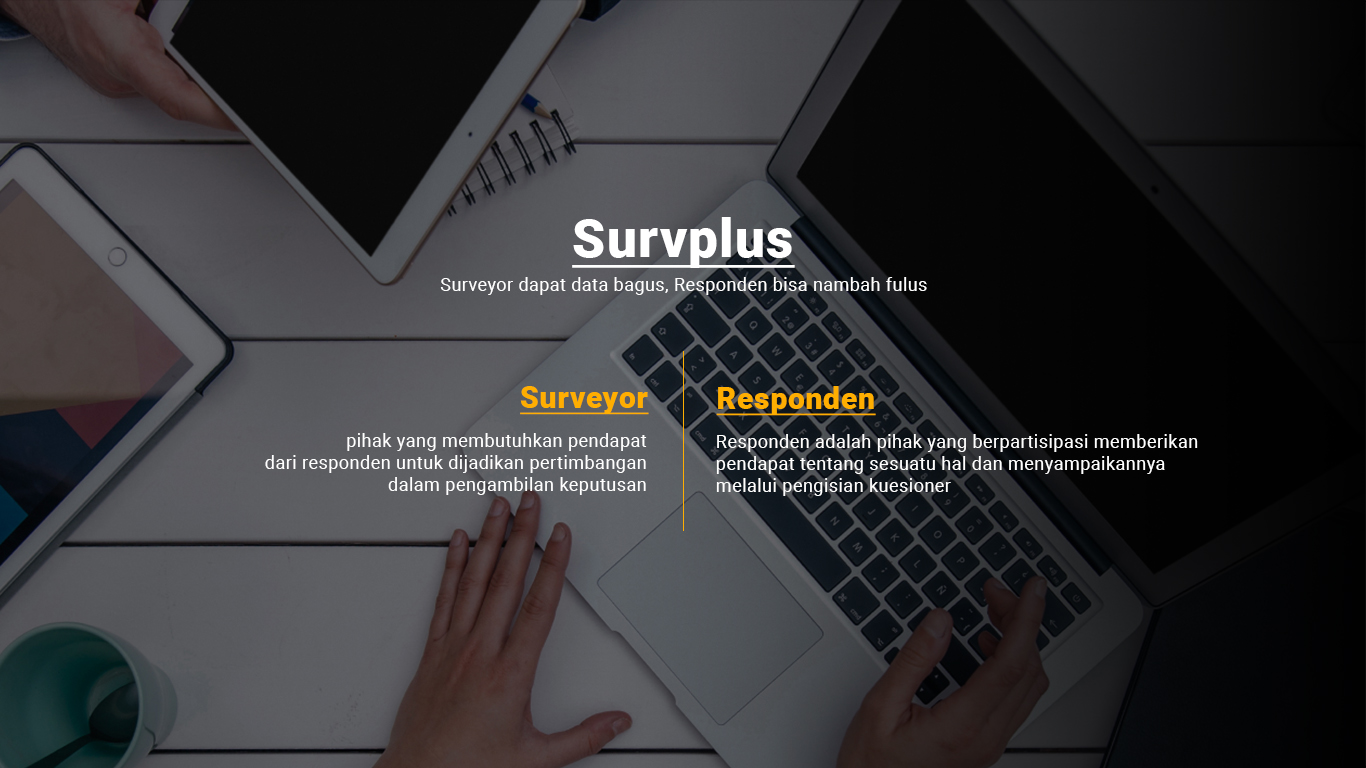
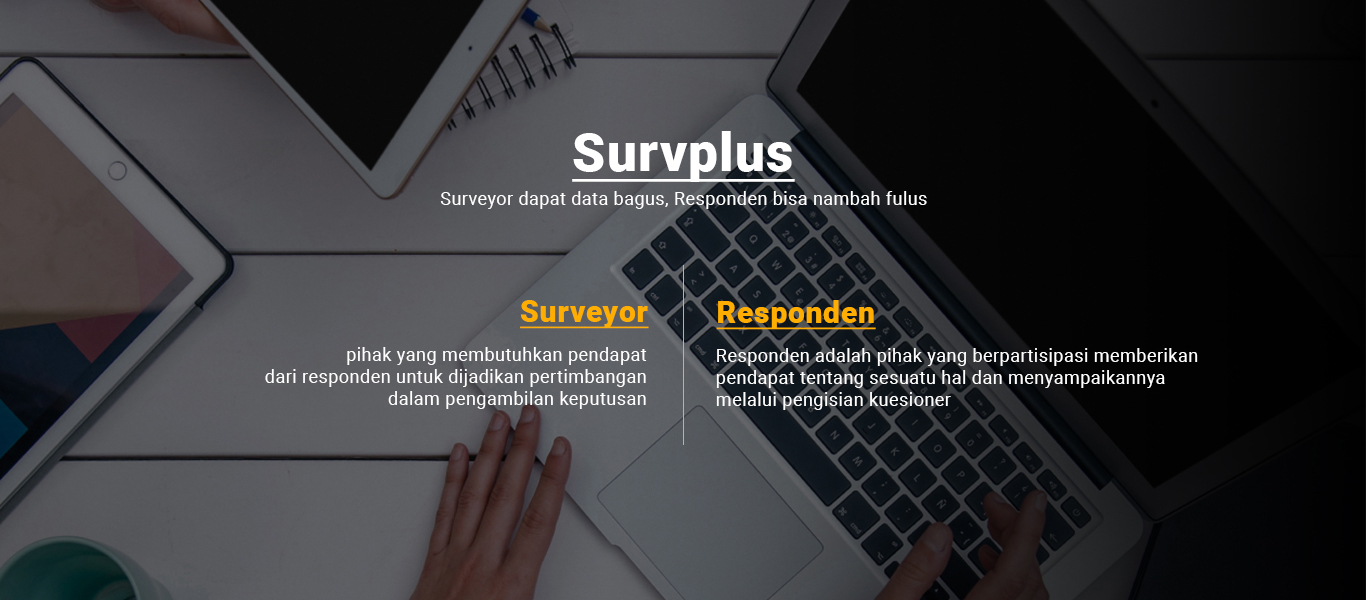
tarik uang, slide, navbar dan home

Changed region(s): [[0.0, 0.0, 0.8917, 1.0], [0.7072, 0.0, 0.8302, 0.18]]

diff --git a/src/container/home/index.jsx b/src/container/home/index.jsx
@@ -43,7 +43,8 @@ const LandingPage = () => {
     autoplay: true,
     autoplaySpeed: 7000,
     slidesToShow: 1,
-    slidesToScroll: 1
+    slidesToScroll: 1,
+    adaptiveHeight: true
   };
 
   const settingslidertwo = {
@@ -55,6 +56,7 @@ const LandingPage = () => {
     slidesToShow: 1,
     slidesToScroll: 1,
     fade: true,
+    adaptiveHeight: true
   };
 
   const getAllUser = () => {
@@ -176,11 +178,11 @@ const LandingPage = () => {
                   </div>
 
                   <div>
-                    <img src="images/Slide2.jpg" style={{width:'100%',height:'100vh'}}></img>
+                    <img src="images/Slide2New.jpg" style={{width:'100%'}}></img>
                   </div>
 
                   <div>
-                    <img src="images/Slide3.jpg" style={{width:'100%', height:'100vh'}}></img>
+                    <img src="images/Slide3New.jpg" style={{width:'100%'}}></img>
                   </div>
                 </Slider>
               </div>
@@ -207,9 +209,9 @@ const LandingPage = () => {
             </Col>
           </Row>
         </Container>
-        <div className="menu" style={{width:'100%', position:'absolute', left:'0', right:'0', top:'0', zIndex:'1'}}>
+        <div className="menu" style={{width:'100%', position:'absolute', left:'0', right:'0', top:'0', zIndex:'1', backgroundColor:'rgba(255,255,255,0.7)'}}>
           <Container>
-            <Row>
+            <Row style={{position: 'sticky', top:'0', zIndex: '1'}}>
               <Col md={3} lg={3}>
               <Link to='/'>
                 <div style={{width:'100%', height:'80px', display:'flex', alignItems:'center', backgroundColor:''}}>
@@ -500,15 +502,15 @@ const LandingPage = () => {
               <div>
                 <Slider {...settingslidertwo}>
                   <div>
-                    <img src="images/ikut_studi.svg" style={{width:'100%'}}></img>
+                    <img src="images/CaraIkutStudi.jpg" style={{width:'100%'}}></img>
                   </div>
 
                   <div>
-                    <img src="images/dapat_studi.svg" style={{width:'100%'}}></img>
+                    <img src="images/CaraDapatStudi.png" style={{width:'100%'}}></img>
                   </div>
 
                   <div>
-                    <img src="images/CaraTarikUang.png" style={{width:'100%'}}></img>
+                    <img src="images/Group 232.jpg" style={{width:'100%'}}></img>
                   </div>
                 </Slider>
               </div>
@@ -527,7 +529,7 @@ const LandingPage = () => {
             <Col md={7} lg={7} xs={12} sm={12}>
               <Row>
                 <Col md={12} lg={12}>
-                <h3 className="text-center title-one"><strong>Cara Survey Online Ini Bekerja</strong></h3>
+                <h3 className="text-center title-one"><strong>Ilustrasi Survei melalui Survplus</strong></h3>
                 </Col>
               </Row>
               <Row className="m-t-30">

diff --git a/src/components/navbar/index.jsx b/src/components/navbar/index.jsx
@@ -170,13 +170,12 @@ export const Navbar = (props) => {
                                       {
                                         notification.map((data, i) => {
                                           return(
-                                            
+                                            <>
                                                 <Dropdown.Item key={`${i}`}>
-                                                  <Link to = {`/${role}/notification`}>
-                                                    {data.content} 
-                                                  </Link>
+                                                  <Link to = {`/${role}/notification`}><span  dangerouslySetInnerHTML={{__html: data.content}}></span></Link>
                                                 </Dropdown.Item>
-                                          
+                                                <Dropdown.Divider/>
+                                          </>
                                             
                                           )
                                         })
